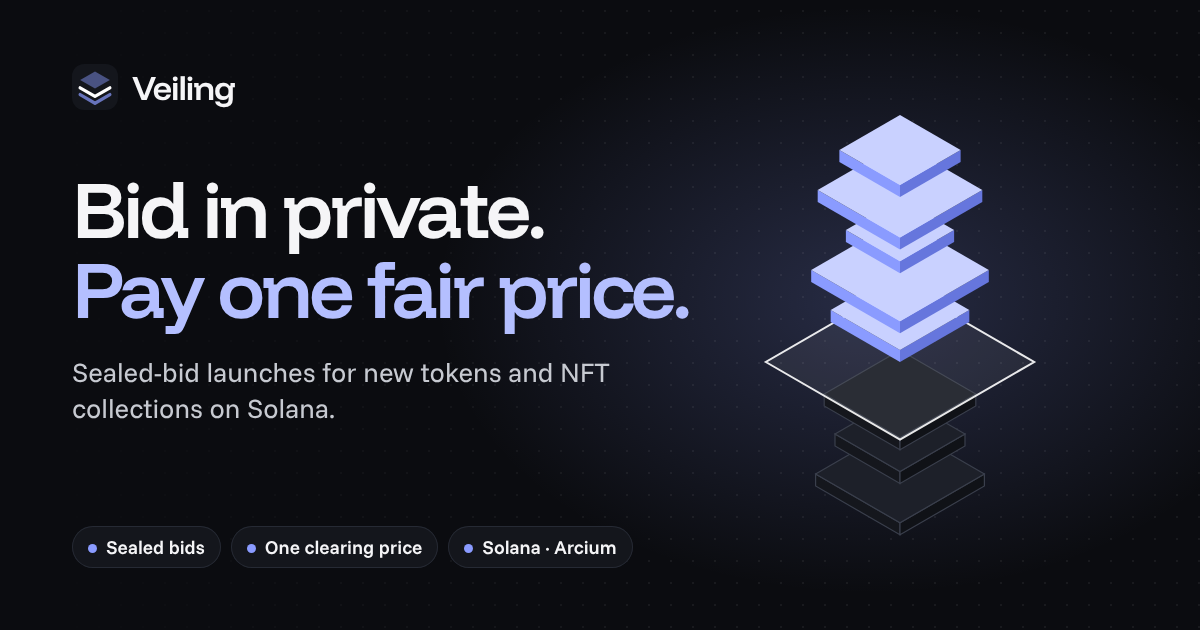
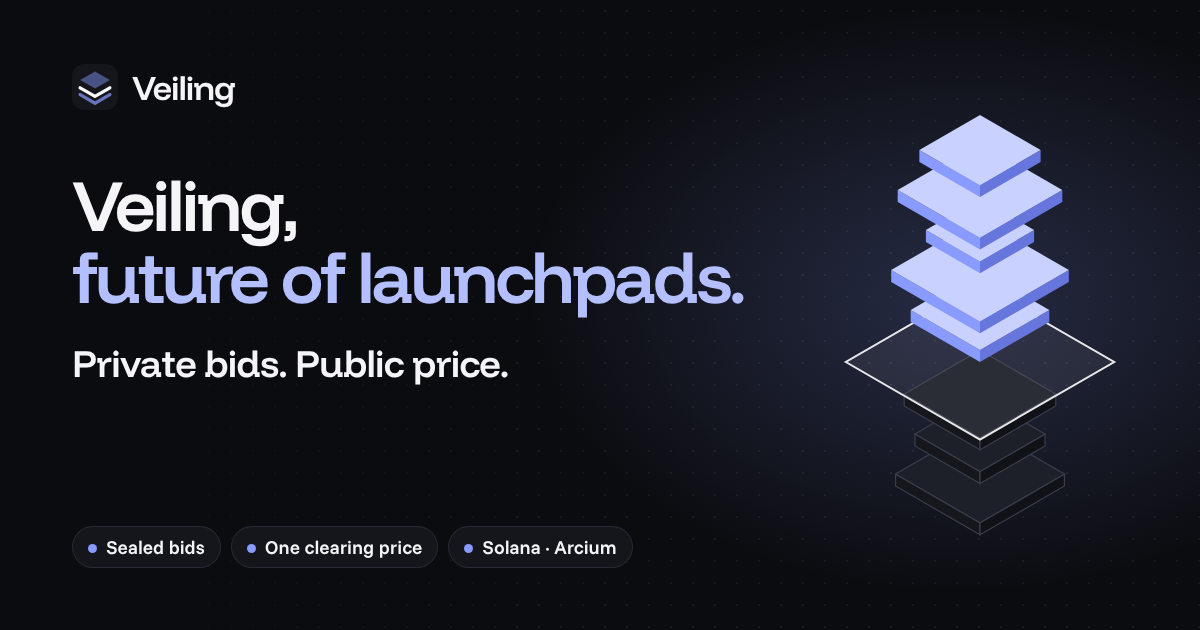
Added the slogan: Veiling, future of launchpads

diff --git a/app/index.html b/app/index.html
@@ -3,18 +3,18 @@
   <head>
     <meta charset="UTF-8" />
     <meta name="viewport" content="width=device-width, initial-scale=1.0" />
-    <title>Veiling · Sealed-bid launches for new tokens and NFTs on Solana</title>
+    <title>Veiling, future of launchpads · Private bids. Public price.</title>
     <meta name="description" content="Veiling sells new tokens and NFT collections on Solana by sealed-bid auction. Bids stay private, every winner pays one clearing price, and a new token is made only if its sale sells out." />
     <meta name="theme-color" content="#0b0c10" />
     <meta property="og:type" content="website" />
     <meta property="og:site_name" content="Veiling" />
-    <meta property="og:title" content="Veiling · Sealed-bid launches for new tokens and NFTs on Solana" />
+    <meta property="og:title" content="Veiling, future of launchpads · Private bids. Public price." />
     <meta property="og:description" content="Veiling sells new tokens and NFT collections on Solana by sealed-bid auction. Bids stay private, every winner pays one clearing price, and a new token is made only if its sale sells out." />
     <meta property="og:image" content="/og.png" />
     <meta property="og:image:type" content="image/png" />
     <meta property="og:image:width" content="1200" />
     <meta property="og:image:height" content="630" />
-    <meta property="og:image:alt" content="Veiling: Bid in private. Pay one fair price." />
+    <meta property="og:image:alt" content="Veiling, future of launchpads. Private bids. Public price." />
     <meta name="twitter:card" content="summary_large_image" />
     <meta name="twitter:image" content="/og.png" />
     <link rel="icon" href="/favicon.svg" type="image/svg+xml" />

diff --git a/app/src/App.tsx b/app/src/App.tsx
@@ -25,8 +25,8 @@ function Footer() {
             Veiling
           </a>
           <p>
-            Sealed-bid auctions for new tokens and NFT collections on Solana. Bids are never opened: only one
-            clearing price is made public, and every winner pays it.
+            Future of launchpads. Private bids, public price: sealed-bid auctions for new tokens and NFT
+            collections on Solana, where every winner pays one clearing price.
           </p>
         </div>
         <nav className="band__links" aria-label="Auctions">
@@ -82,7 +82,7 @@ export function App({ route: fixed }: { route?: string }) {
           ? "My bids · Veiling"
           : route.startsWith("auction/")
             ? "Auction · Veiling"
-            : "Veiling · Sealed-bid launches for new tokens and NFTs on Solana";
+            : "Veiling, future of launchpads · Private bids. Public price.";
   }, [route]);
 
   let page;

diff --git a/app/src/pages/Home.tsx b/app/src/pages/Home.tsx
@@ -239,12 +239,13 @@ export function Home() {
         <div className="stage__copy">
           <h1 className="stage__title">
             <span className="stage__line">
-              <span>Bid in private.</span>
+              <span>Veiling,</span>
             </span>
-            <span className="stage__line">
-              <span>Pay one fair price.</span>
+            <span className="stage__line stage__line--accent">
+              <span>future of launchpads.</span>
             </span>
           </h1>
+          <p className="stage__tagline">Private bids. Public price.</p>
           <p className="stage__lede">
             Veiling sells new tokens and NFT collections on Solana by sealed bid. Your price stays encrypted from
             the moment you bid. When bidding closes, one clearing price is found, every winner pays it, and

diff --git a/app/src/styles.css b/app/src/styles.css
@@ -2902,6 +2902,18 @@ p {
   display: block;
 }
 
+.stage__line--accent > span {
+  color: var(--cobalt-soft);
+}
+
+.stage__tagline {
+  font-family: var(--font-display);
+  font-size: var(--step-2);
+  font-weight: 600;
+  letter-spacing: -0.02em;
+  color: var(--ink);
+}
+
 .stage__lede {
   max-width: 30em;
   font-size: var(--step-1);
@@ -3279,6 +3291,9 @@ p {
   }
   .stage__line + .stage__line > span {
     animation-delay: 80ms;
+  }
+  .stage__tagline {
+    animation: fade 700ms ease 220ms both;
   }
   .stage__lede,
   .stage__actions {
